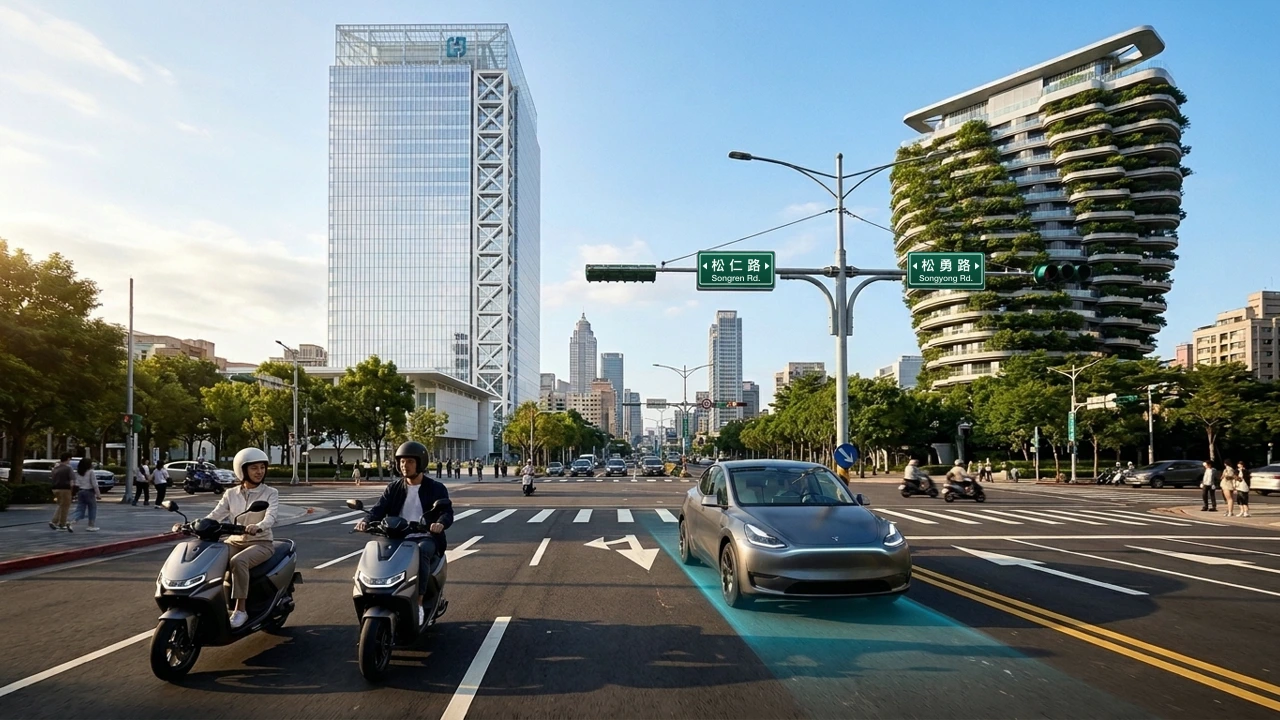
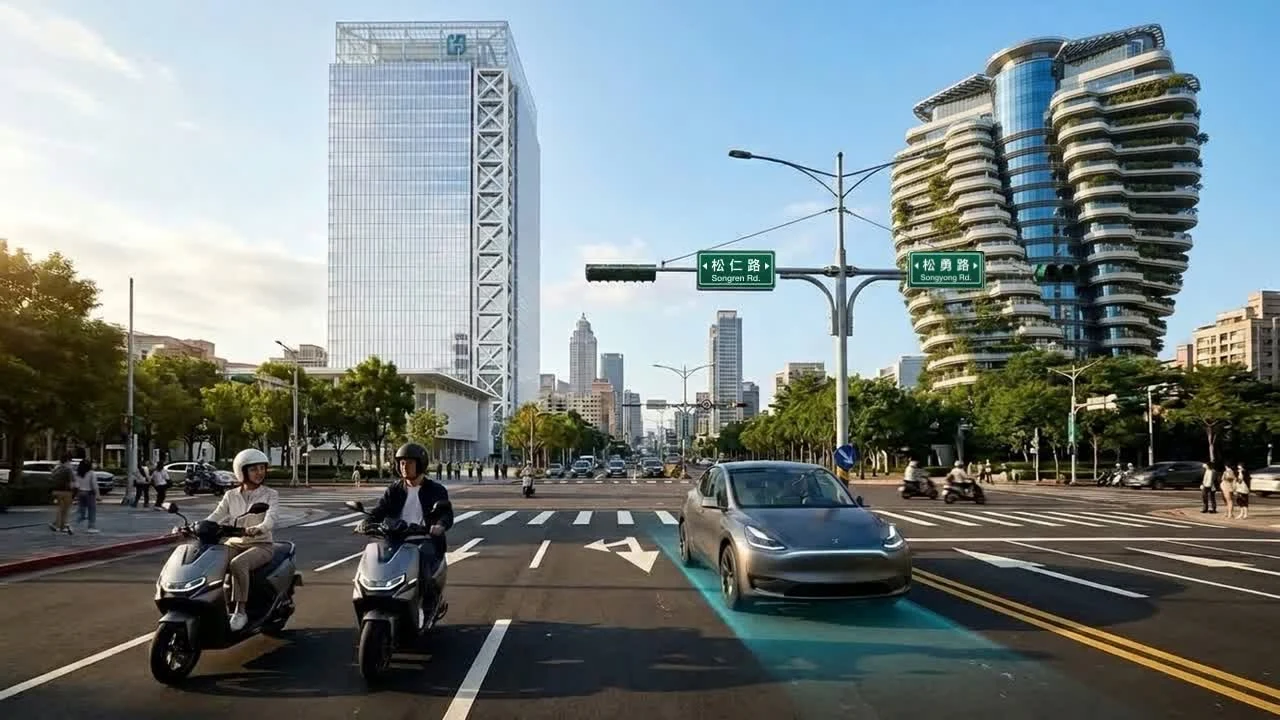
fix(qa): harden phase guards, modal timer pause, mid-run i18n log, and regenerate Tao Zhu Yin Yuan scene

diff --git a/src/ui-app.js b/src/ui-app.js
@@ -1,12 +1,14 @@
 // 主介面控制器：GTA 6 × 台灣街頭工藝《決策智慧：電通台灣一日風雲》（Diegetic Game HUD）
 import { PEOPLE_MODEL_TWINS, CHAPTERS } from './story-data.js';
 import {
+  SUPPORTED_LANGS,
   initLang,
   getLang,
   setLang,
   t,
   getUiStrings,
   getCutsceneUrl,
+  getLocalizedRole,
   getLocalizedRoles,
   getLocalizedTwins,
   getLocalizedGrandmaQuips,
@@ -311,10 +313,194 @@ class GtaDentsuApp {
     }
   }
 
+  _localizeTimeSlot(timeStr, roleId, lang) {
+    if (!timeStr) return timeStr;
+    for (const srcLang of SUPPORTED_LANGS) {
+      for (let ci = 0; ci < CHAPTERS.length; ci += 1) {
+        if (getLocalizedChapterForRole(ci, roleId, srcLang).timeSlot === timeStr) {
+          return getLocalizedChapterForRole(ci, roleId, lang).timeSlot;
+        }
+      }
+    }
+    return timeStr;
+  }
+
+  _localizePhoneLogEntry(entry, state, lang) {
+    if (!entry || typeof entry !== 'object') return entry;
+    const roleId = state.roleId || 'planner';
+    const dstUi = getUiStrings(lang).engine || {};
+    const dstQuips = getLocalizedGrandmaQuips(lang);
+    const dstTwins = getLocalizedTwins(lang);
+    const dstRole = getLocalizedRole(roleId, lang);
+    const mappedTime = this._localizeTimeSlot(entry.time, roleId, lang);
+
+    if (entry.badge === 'AMA666') {
+      let nextText = entry.text;
+      for (const srcLang of SUPPORTED_LANGS) {
+        const idx = (getLocalizedGrandmaQuips(srcLang).rescueLines || []).indexOf(entry.text);
+        if (idx >= 0) {
+          nextText = dstQuips.rescueLines[idx % dstQuips.rescueLines.length];
+          break;
+        }
+      }
+      return {
+        ...entry,
+        from: dstUi.grandmaName || entry.from,
+        role: dstUi.grandmaRole || entry.role,
+        time: mappedTime,
+        text: nextText
+      };
+    }
+
+    if (entry.badge === 'RESCUE') {
+      let nextText = entry.text;
+      for (const srcLang of SUPPORTED_LANGS) {
+        const srcQ = getLocalizedGrandmaQuips(srcLang);
+        const idx = (srcQ.rescueLines || []).findIndex((line) => `${srcQ.rescueTitle} ${line}` === entry.text);
+        if (idx >= 0) {
+          nextText = `${dstQuips.rescueTitle} ${dstQuips.rescueLines[idx % dstQuips.rescueLines.length]}`;
+          break;
+        }
+      }
+      return {
+        ...entry,
+        from: dstUi.grandmaEmergencyFrom || entry.from,
+        role: dstUi.grandmaEmergencyRole || entry.role,
+        time: mappedTime,
+        text: nextText
+      };
+    }
+
+    if (entry.badge === 'SKILL') {
+      const nextNote = dstUi.specialNotes?.[dstRole.id]
+        || (typeof dstUi.specialFallback === 'function' ? dstUi.specialFallback(dstRole.specialName) : entry.text);
+      return {
+        ...entry,
+        from: dstRole.name,
+        role: dstRole.specialName,
+        time: mappedTime,
+        text: nextNote
+      };
+    }
+
+    if (entry.badge === 'AMA') {
+      let matchedCi = -1;
+      for (const srcLang of SUPPORTED_LANGS) {
+        for (let ci = 0; ci < CHAPTERS.length; ci += 1) {
+          if (getLocalizedChapterForRole(ci, roleId, srcLang).grandmaQuip === entry.text) {
+            matchedCi = ci;
+            break;
+          }
+        }
+        if (matchedCi >= 0) break;
+      }
+      const dstCh = getLocalizedChapterForRole(matchedCi >= 0 ? matchedCi : state.chapterIndex, roleId, lang);
+      return {
+        ...entry,
+        from: dstUi.grandmaName || entry.from,
+        role: dstTwins.grandma?.voice || entry.role,
+        time: dstCh.timeSlot,
+        text: dstCh.grandmaQuip
+      };
+    }
+
+    if (entry.badge === 'MODEL') {
+      let matchedTid = null;
+      let matchedCi = -1;
+      for (const srcLang of SUPPORTED_LANGS) {
+        const srcTwins = getLocalizedTwins(srcLang);
+        for (const tid of ['lisa', 'cindy']) {
+          for (let ci = 0; ci < CHAPTERS.length; ci += 1) {
+            const srcCh = getLocalizedChapterForRole(ci, roleId, srcLang);
+            if (srcCh.peopleModel?.[tid] === entry.text) {
+              matchedTid = tid;
+              matchedCi = ci;
+              break;
+            }
+          }
+          if (matchedTid) break;
+        }
+        if (matchedTid) break;
+        for (const tid of ['lisa', 'cindy']) {
+          if (srcTwins[tid]?.name === entry.from) {
+            matchedTid = tid;
+            break;
+          }
+        }
+        if (matchedTid) break;
+      }
+      const tid = matchedTid || 'lisa';
+      const dstCh = matchedCi >= 0 ? getLocalizedChapterForRole(matchedCi, roleId, lang) : null;
+      return {
+        ...entry,
+        from: dstTwins[tid]?.name || entry.from,
+        role: dstTwins[tid]?.voice || entry.role,
+        time: dstCh ? dstCh.timeSlot : mappedTime,
+        text: dstCh?.peopleModel?.[tid] || entry.text
+      };
+    }
+
+    if (entry.badge === 'CH6 CALL') {
+      let matchedCi = 5;
+      for (const srcLang of SUPPORTED_LANGS) {
+        for (let ci = 0; ci < CHAPTERS.length; ci += 1) {
+          if (getLocalizedChapterForRole(ci, roleId, srcLang).grandmaPhoneCall?.text === entry.text) {
+            matchedCi = ci;
+            break;
+          }
+        }
+      }
+      const dstCh = getLocalizedChapterForRole(matchedCi, roleId, lang);
+      return {
+        ...entry,
+        from: dstUi.grandmaCh6From || entry.from,
+        role: dstUi.grandmaCh6Role || entry.role,
+        time: dstCh.timeSlot,
+        text: dstCh.grandmaPhoneCall?.text || entry.text
+      };
+    }
+
+    if (entry.badge === 'MINIGAME') {
+      const m = String(entry.text || '').match(/(\d+)\D+\+(\d+)\D+\+(\d+)/);
+      const nextText = m && typeof dstUi.scooterLog === 'function'
+        ? dstUi.scooterLog(m[1], m[2], m[3])
+        : entry.text;
+      return {
+        ...entry,
+        from: dstUi.grandmaScooterFrom || entry.from,
+        role: dstUi.grandmaScooterRole || entry.role,
+        time: mappedTime,
+        text: nextText
+      };
+    }
+
+    for (const srcLang of SUPPORTED_LANGS) {
+      for (let ci = 0; ci < CHAPTERS.length; ci += 1) {
+        const srcCh = getLocalizedChapterForRole(ci, roleId, srcLang);
+        if (srcCh.lineMessage === entry.text || (srcCh.lineSender?.badge === entry.badge && srcCh.timeSlot === entry.time)) {
+          const dstCh = getLocalizedChapterForRole(ci, roleId, lang);
+          return {
+            ...entry,
+            from: dstCh.lineSender.name,
+            role: dstCh.lineSender.role,
+            badge: dstCh.lineSender.badge,
+            time: dstCh.timeSlot,
+            text: dstCh.lineMessage
+          };
+        }
+      }
+    }
+
+    return { ...entry, time: mappedTime };
+  }
+
   _localizeProgress(state, lang) {
     if (!state.roleId) return state;
     const ch = getCurrentChapter(state);
     const nextState = { ...state };
+    if (Array.isArray(state.phoneLog)) {
+      nextState.phoneLog = state.phoneLog.map((entry) => this._localizePhoneLogEntry(entry, state, lang));
+    }
     if (state.activeReply && Array.isArray(ch.replies)) {
       const matchedReply = ch.replies.find((r) => r.id === state.activeReply.id) || ch.replies[0];
       nextState.activeReply = matchedReply;
@@ -696,6 +882,7 @@ class GtaDentsuApp {
   }
 
   _openRestartConfirm() {
+    this._clearStopTimer();
     soundFX.playClick();
     if (!this.confirmRestartDialog) {
       this._resetGame();
@@ -797,6 +984,10 @@ class GtaDentsuApp {
         dlg.returnValue = '';
         this.welcomeDialogOpen = false;
         this._drainPendingToasts();
+        const ch = getCurrentChapter(this.state);
+        if (this.state.phase === 'game' && ch?.game?.type === 'stop' && !this.stopFinished && !this.stopTimer && !this._isAnyModalOpen()) {
+          this.render();
+        }
       });
       document.body.appendChild(dlg);
       this.welcomeDialog = dlg;
@@ -820,6 +1011,10 @@ class GtaDentsuApp {
         cDlg.returnValue = '';
         this.restartDialogOpen = false;
         this._drainPendingToasts();
+        const ch = getCurrentChapter(this.state);
+        if (this.state.phase === 'game' && ch?.game?.type === 'stop' && !this.stopFinished && !this.stopTimer && !this._isAnyModalOpen()) {
+          this.render();
+        }
       });
       document.body.appendChild(cDlg);
       this.confirmRestartDialog = cDlg;
@@ -859,6 +1054,7 @@ class GtaDentsuApp {
   }
 
   _openWelcomeTour(slide = 0, invokerEl = null) {
+    this._clearStopTimer();
     const slides = getWelcomeSlides();
     this._tourInvokerEl = invokerEl || document.activeElement;
     this.welcomeSlide = Math.max(0, Math.min(slides.length - 1, slide));
@@ -1270,10 +1466,14 @@ class GtaDentsuApp {
     }
 
     if (this.scooterModalOpen || this.ch6CallModalOpen || this.streetViewModalOpen) {
-      if (e.key === 'Escape') {
+      if (this.ch6CallModalOpen && (e.key === 'Escape' || e.key === 'Enter' || e.key === ' ')) {
+        e.preventDefault();
+        this._acceptGrandmaCall();
+      } else if (e.key === 'Escape') {
         if (this.streetViewModalOpen) {
           this.streetViewModalOpen = false;
           this.render();
+          this._drainPendingToasts();
         } else if (this.scooterModalOpen) {
           this._closeScooterModal(true);
         }
@@ -1479,6 +1679,7 @@ class GtaDentsuApp {
   }
 
   _openScooterModal() {
+    this._clearStopTimer();
     this._prevStation = soundFX.stationIndex;
     soundFX.setStation(2); // Turbo Cyber-Pulse
     this.scooterModalOpen = true;
@@ -1610,7 +1811,16 @@ class GtaDentsuApp {
               text: t('titleScreen.ctaResume', this.state.chapterIndex + 1),
               onClick: () => {
                 soundFX.playClick();
-                this._setState({ ...this.state, phase: 'scene' });
+                const chId = this.state.chapterIndex + 1;
+                let resumePhase = 'scene';
+                if (this.state.history.length >= CHAPTERS.length) {
+                  resumePhase = 'review';
+                } else if (this.state.history.some((h) => h.chapterId === chId) && this.state.lastGameOutcome) {
+                  resumePhase = 'reveal';
+                } else if (this.state.activeReply) {
+                  resumePhase = 'game';
+                }
+                this._setState({ ...this.state, phase: resumePhase });
               }
             })
           : null
@@ -2119,6 +2329,7 @@ class GtaDentsuApp {
         class: 'scene-gmap-iframe',
         src: this._build360EmbedUrl({ ...gm, panoId: this.resolvedPanoInfo[ch.id]?.panoId || gm.panoId }),
         title: t('sceneCard.iframeTitle360', ch.location),
+        allow: 'accelerometer; gyroscope; fullscreen',
         allowfullscreen: 'true',
         loading: 'lazy',
         referrerpolicy: 'no-referrer-when-downgrade'
@@ -2209,6 +2420,7 @@ class GtaDentsuApp {
         onClick: () => {
           closeMore();
           soundFX.playClick();
+          this._clearStopTimer();
           this.streetViewModalOpen = true;
           this._lookupLivePano(ch);
           this.render();
@@ -3035,7 +3247,7 @@ class GtaDentsuApp {
         tickLabel.textContent = t('miniGame.stopWeek', this.stopTick, game.ticks);
         statusPill.textContent = getStopStatusText(this.stopTick);
       };
-      if (!this.stopTimer && !this.stopFinished) {
+      if (!this.stopTimer && !this.stopFinished && !this._isAnyModalOpen()) {
         this.stopTimer = setInterval(() => {
           this.stopTick += 1;
           this.updateStopDisplay();
@@ -3178,6 +3390,11 @@ class GtaDentsuApp {
       ])
     ]);
 
+    if (this.scooterInstance) {
+      this.scooterInstance.stop(true);
+      this.scooterInstance = null;
+    }
+
     requestAnimationFrame(() => {
       if (!this.scooterModalOpen || this.scooterInstance) return;
       this.scooterInstance = new GrandmaScooterGame(canvas, scooterCfg, {
@@ -3227,6 +3444,7 @@ class GtaDentsuApp {
         class: 'scene-gmap-iframe sv-modal-viewport',
         src: this._build360EmbedUrl({ ...gm, panoId: live?.panoId || gm.panoId }),
         title: t('streetViewModal.iframeTitle', ch.location),
+        allow: 'accelerometer; gyroscope; fullscreen',
         allowfullscreen: 'true',
         loading: 'lazy',
         referrerpolicy: 'no-referrer-when-downgrade'
@@ -3472,6 +3690,7 @@ class GtaDentsuApp {
           onClick: () => {
             this.streetViewModalOpen = false;
             this.render();
+            this._drainPendingToasts();
           }
         })
       );

diff --git a/src/game-engine.js b/src/game-engine.js
@@ -224,6 +224,7 @@ export function useRoleSpecial(state) {
 }
 
 export function chooseReply(state, replyIndex) {
+  if (state.phase !== 'scene' && state.phase !== 'cutscene') return state;
   const ch = getCurrentChapter(state);
   const rep = ch.replies[replyIndex] || ch.replies[0];
   let wantedDelta = rep.wantedDelta || 0;
@@ -308,7 +309,7 @@ export function chooseReply(state, replyIndex) {
         pointsEarned: replyPoints,
         submission: null,
       },
-      history: [...state.history, record],
+      history: [...state.history.filter((h) => h.chapterId !== ch.id), record],
       phoneLog,
     };
   }
@@ -419,6 +420,7 @@ export function evaluateMiniGame(game, submission) {
 }
 
 export function submitMiniGame(state, submission) {
+  if (state.phase !== 'game') return state;
   const ch = getCurrentChapter(state);
   const outcome = evaluateMiniGame(ch.game, submission);
   const tier = ch.id <= 3 ? 1 : ch.id <= 6 ? 2 : 3;
@@ -471,7 +473,7 @@ export function submitMiniGame(state, submission) {
     gamesCorrectCount: state.gamesCorrectCount + (outcome.scored && outcome.correct ? 1 : 0),
     lastGameOutcome: { ...outcome, pointsEarned, submission },
     chapter6PhoneTriggered,
-    history: [...state.history, record],
+    history: [...state.history.filter((h) => h.chapterId !== ch.id), record],
     phoneLog,
   };
 }
@@ -506,6 +508,7 @@ export function completeScooterRun(state, result) {
 }
 
 export function advanceChapter(state) {
+  if (state.phase !== 'reveal') return state;
   const nextIndex = state.chapterIndex + 1;
   if (nextIndex >= CHAPTERS.length) {
     return { ...state, phase: 'review' };

diff --git a/src/launch-kit.js b/src/launch-kit.js
@@ -68,7 +68,9 @@ export function sanitizeLoadedState(raw, fallbackFactory, chapterCount = 10) {
   const maxIdx = Math.max(0, Number(chapterCount || 10) - 1);
   const roleId = VALID_ROLES.has(raw.roleId) ? raw.roleId : base.roleId;
   let phase = VALID_PHASES.has(raw.phase) ? raw.phase : base.phase;
-  if ((phase === 'game' || phase === 'reveal') && !raw.activeReply && phase === 'game') {
+  if (phase === 'game' && !raw.activeReply) {
+    phase = 'scene';
+  } else if (phase === 'reveal' && (!raw.activeReply || !raw.lastGameOutcome)) {
     phase = 'scene';
   }
   const grandmaUnlocked = Boolean(raw.grandmaUnlocked);
